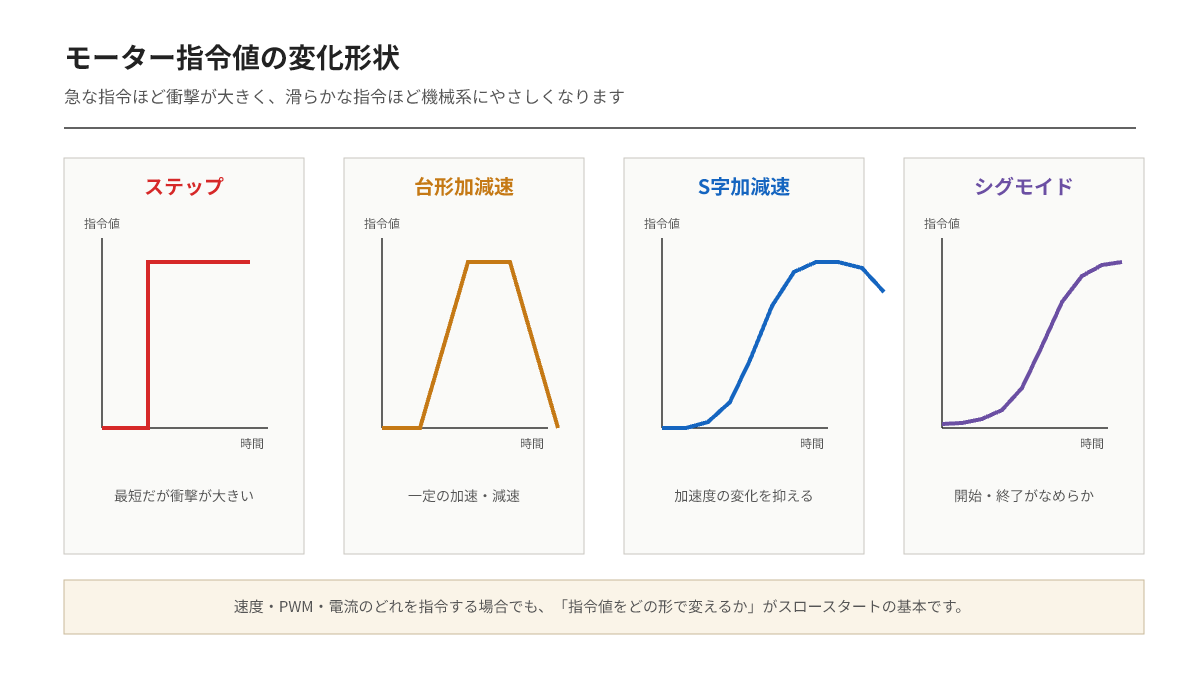
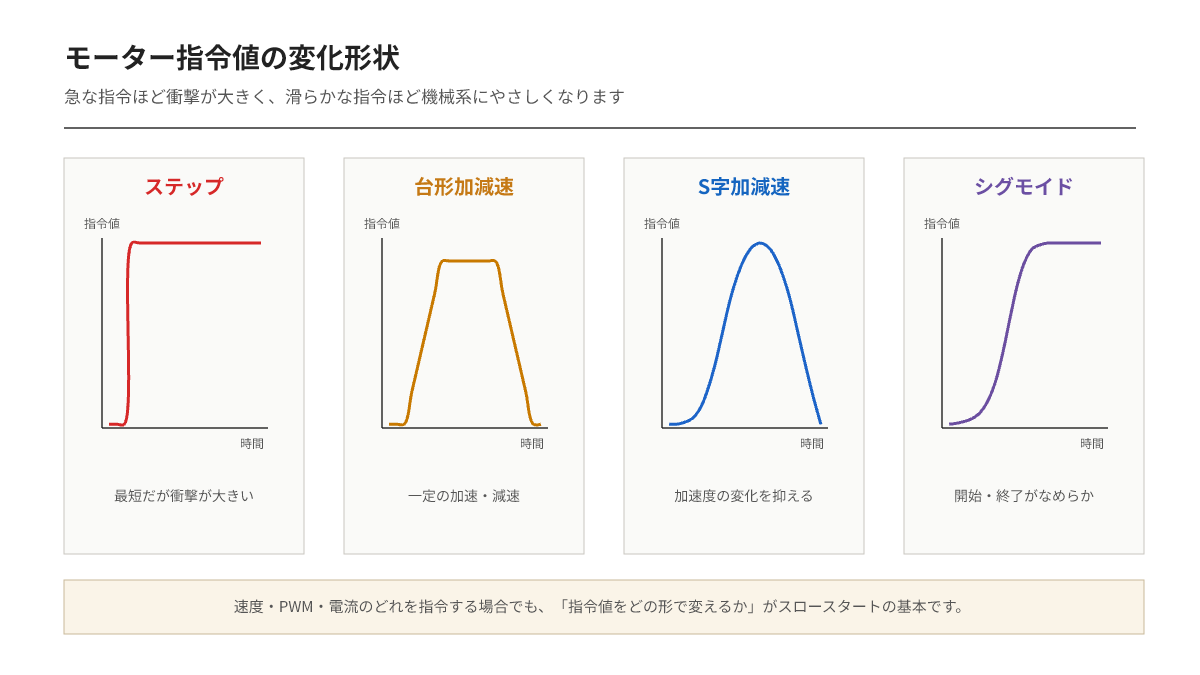
fix docs tag

diff --git a/.vitepress/theme/components/TagExplorer.vue b/.vitepress/theme/components/TagExplorer.vue
@@ -25,6 +25,11 @@ const visibleTags = computed(() => {
 
 const filteredPages = computed(() => getArticlesByTags(selectedTags.value))
 
+function getAvailableTagCount(tag: string): number {
+  const tagsWithoutCurrent = selectedTags.value.filter((selectedTag) => selectedTag !== tag)
+  return getArticlesByTags([...tagsWithoutCurrent, tag]).length
+}
+
 const hasSelection = computed(() => selectedTags.value.length > 0)
 
 function syncUrl(): void {
@@ -87,12 +92,12 @@ onMounted(() => {
 
     <div class="tag-explorer__searchbar">
       <label class="tag-explorer__search">
-        <span class="tag-explorer__search-label">タグ検索</span>
+        <span class="tag-explorer__search-label">タグを検索</span>
         <input
           v-model="searchQuery"
           class="tag-explorer__search-input"
           type="search"
-          placeholder="タグ名で探す"
+          placeholder="例：CAN、入門、通信"
         />
       </label>
 
@@ -115,7 +120,8 @@ onMounted(() => {
     </div>
 
     <div class="tag-explorer__meta">
-      <span>{{ filteredPages.length }} 記事</span>
+      <strong>{{ filteredPages.length }} 件</strong>
+      <span>の記事が見つかりました</span>
       <span v-if="selectedTags.length">
         {{ selectedTags.join(' + ') }} で絞り込み中
       </span>
@@ -141,7 +147,7 @@ onMounted(() => {
           @click="toggleTag(item.tag)"
         >
           <span class="tag-explorer__filter-name">{{ item.tag }}</span>
-          <span class="tag-explorer__filter-count">{{ item.count }}</span>
+          <span class="tag-explorer__filter-count">{{ getAvailableTagCount(item.tag) }}</span>
         </button>
       </div>
     </div>
@@ -153,6 +159,12 @@ onMounted(() => {
         :article="page"
         :displayMode="mode"
       />
+    </div>
+
+    <div v-if="!filteredPages.length" class="tag-explorer__empty">
+      <strong>条件に一致する記事がありません</strong>
+      <p>タグを減らすか、検索条件を変えてみてください。</p>
+      <button type="button" @click="clearTags">選択をリセット</button>
     </div>
   </section>
 </template>
@@ -316,6 +328,11 @@ onMounted(() => {
   font-size: 0.9rem;
 }
 
+.tag-explorer__meta strong {
+  color: var(--vp-c-text-1);
+  font-size: 1.05rem;
+}
+
 .tag-explorer__filters-panel {
   display: grid;
   gap: 0.9rem;
@@ -411,6 +428,36 @@ onMounted(() => {
 .tag-explorer__filter.is-active .tag-explorer__filter-count {
   color: var(--vp-c-brand-1);
   background: color-mix(in srgb, var(--vp-c-brand-1) 12%, transparent);
+}
+
+.tag-explorer__empty {
+  display: grid;
+  justify-items: start;
+  gap: 0.45rem;
+  padding: 2.25rem 1.25rem;
+  border: 1px dashed var(--vp-c-divider);
+  border-radius: 1rem;
+  background: var(--vp-c-bg-soft);
+}
+
+.tag-explorer__empty p {
+  margin: 0;
+  color: var(--vp-c-text-2);
+}
+
+.tag-explorer__empty button {
+  margin-top: 0.35rem;
+  border: 0;
+  padding: 0;
+  color: var(--vp-c-brand-1);
+  background: transparent;
+  font: inherit;
+  font-weight: 700;
+  cursor: pointer;
+}
+
+.tag-explorer__empty button:hover {
+  text-decoration: underline;
 }
 
 .tag-explorer__grid {

diff --git a/.vitepress/theme/components/TechnicalArticleCategory.vue b/.vitepress/theme/components/TechnicalArticleCategory.vue
@@ -1,6 +1,7 @@
 <script setup lang="ts">
 import { withBase } from 'vitepress'
 import type { HomeThumbnailSection } from '../home-thumbnail'
+import { useTags } from '../composables/useTags'
 
 const props = defineProps<{
   eyebrow?: string
@@ -9,7 +10,10 @@ const props = defineProps<{
   target: string
   sections: HomeThumbnailSection[]
   backLink?: string
+  showStats?: boolean
 }>()
+
+const { articles, tagSummaries } = useTags()
 </script>
 
 <template>
@@ -18,6 +22,21 @@ const props = defineProps<{
       <p class="technical-article-category__eyebrow">{{ props.eyebrow ?? 'Technical Articles' }}</p>
       <h1>{{ props.title }}</h1>
       <p class="technical-article-category__lead">{{ props.description }}</p>
+
+      <div v-if="props.showStats" class="technical-article-category__stats" aria-label="開発資料の概要">
+        <div>
+          <strong>{{ articles.length }}</strong>
+          <span>記事</span>
+        </div>
+        <div>
+          <strong>{{ tagSummaries.length }}</strong>
+          <span>タグ</span>
+        </div>
+        <div>
+          <strong>4</strong>
+          <span>カテゴリ</span>
+        </div>
+      </div>
 
       <nav class="technical-article-category__links" aria-label="開発資料の関連リンク">
         <a v-if="props.backLink" :href="withBase(props.backLink)">
@@ -97,6 +116,37 @@ const props = defineProps<{
 
 .technical-article-category__links a:hover {
   text-decoration: underline;
+}
+
+.technical-article-category__stats {
+  display: flex;
+  flex-wrap: wrap;
+  gap: 1.35rem;
+  margin-top: 1.55rem;
+}
+
+.technical-article-category__stats div {
+  display: inline-flex;
+  align-items: baseline;
+  gap: 0.35rem;
+  padding-right: 1.35rem;
+  border-right: 1px solid var(--vp-c-divider);
+}
+
+.technical-article-category__stats div:last-child {
+  padding-right: 0;
+  border-right: 0;
+}
+
+.technical-article-category__stats strong {
+  color: var(--vp-c-brand-1);
+  font-size: 1.35rem;
+  line-height: 1;
+}
+
+.technical-article-category__stats span {
+  color: var(--vp-c-text-2);
+  font-size: 0.82rem;
 }
 
 .technical-article-category__links a:focus-visible {

diff --git a/.vitepress/theme/components/TechnicalArticlesHome.vue b/.vitepress/theme/components/TechnicalArticlesHome.vue
@@ -18,8 +18,8 @@ const sections: HomeThumbnailSection[] = [
     maxItems: 4,
     filters: [
       { includeTags: ['開発資料', 'MCU'] },
-      { includeTags: ['開発資料', 'HAL'] },
-      { includeTags: ['開発資料', '設定'] },
+      { includeTags: ['開発資料', 'HALbed'] },
+      { includeTags: ['開発資料', 'STM32'] },
     ],
   },
   {
@@ -49,5 +49,6 @@ const sections: HomeThumbnailSection[] = [
     description="HALbed と STM32 を使った開発に役立つ記事を、目的別にまとめています。"
     target="article-home"
     :sections="sections"
+    :show-stats="true"
   />
 </template>

diff --git a/Docs/Technical_articles/About_MCU_Articles.md b/Docs/Technical_articles/About_MCU_Articles.md
@@ -20,30 +20,30 @@ const sections: HomeThumbnailSection[] = [
     title: 'HAL',
     description: 'HAL を使った最初の動作確認に役立つ記事を集めています。',
     filters: [
-      { includeTags: ['開発資料', 'HAL'] },
+      { includeTags: ['開発資料', 'HALbed'] },
     ],
   },
   {
     title: 'HALbed の機能',
     description: 'Callback、CircularBuffer、LogManagerなど、HALbedの機能を実装例とともに紹介します。',
     filters: [
-      { includeTags: ['技術記事', 'HALbed'] },
+      { includeTags: ['開発資料', 'HALbed'] },
     ],
   },
   {
     title: 'CAN / FDCAN',
     description: 'CAN 周辺の設定や送受信で、つまずきやすいポイントを整理しています。',
     filters: [
-      { includeTags: ['開発資料', 'MCU', 'CAN', 'CANFD', '用語解説'] },
-      { includeTags: ['開発資料', 'MCU', 'CAN', 'CANFD'] },
+      { includeTags: ['開発資料', 'MCU', 'CAN', 'CAN FD', '用語解説'] },
+      { includeTags: ['開発資料', 'MCU', 'CAN', 'CAN FD'] },
     ],
   },
   {
     title: 'CubeIDE / MX の設定',
     description: 'CubeIDE / MX の設定で、特に気をつけたい点をまとめています。',
     filters: [
-      { includeTags: ['開発資料', 'MCU', 'CAN', 'CANFD', '設定'] },
-      { includeTags: ['Nucleo', 'CubeMX', '設定'] },
+      { includeTags: ['開発資料', 'MCU', 'STM32'] },
+      { includeTags: ['開発資料', 'STM32'] },
     ],
   },
 ]

diff --git a/Docs/Technical_articles/Other_Articles.md b/Docs/Technical_articles/Other_Articles.md
@@ -12,7 +12,7 @@ const sections: HomeThumbnailSection[] = [
     title: '有線通信',
     description: 'ロボット製作でよく使う通信方式の基礎をまとめています。',
     filters: [
-      { includeTags: ['有線通信', '入門'] },
+      { includeTags: ['開発資料', '有線通信', '入門'] },
     ],
   },
 ]

diff --git a/Docs/Technical_articles/MCU_Doc/CAN_Filters_Nbr.md b/Docs/Technical_articles/MCU_Doc/CAN_Filters_Nbr.md
@@ -3,7 +3,7 @@ tags:
   - 開発資料
   - MCU
   - CAN
-  - CANFD
+  - CAN FD
   - 用語解説
 thumbnail:
   targets:
@@ -13,7 +13,7 @@ thumbnail:
   order: 30
 ---
 
-# CAN/CANFD Filters Nbr 
+# CAN/CAN FD Filters Nbr
 
 ## 概要
 

diff --git a/Docs/Technical_articles/Other_Articles/Wired_communication/05-frame-format.md b/Docs/Technical_articles/Other_Articles/Wired_communication/05-frame-format.md
@@ -1,10 +1,11 @@
 ---
 tags:
+    - 開発資料
+    - 有線通信
     - CAN
+    - CAN FD
     - CANフレーム
     - CRC
-    - ACK
-    - ビットスタッフィング
 ---
 
 # CAN / CAN FD入門 第3編

diff --git a/Docs/Technical_articles/Other_Articles/Wired_communication/04-differential-signaling.md b/Docs/Technical_articles/Other_Articles/Wired_communication/04-differential-signaling.md
@@ -1,9 +1,9 @@
 ---
 tags:
+    - 開発資料
+    - 有線通信
     - CAN
-    - 物理層
-    - 差動信号
-    - 終端抵抗
+    - CAN FD
 ---
 
 # CAN / CAN FD入門 第2編

diff --git a/Docs/Technical_articles/Other_Articles/Wired_communication/06-arbitration-and-errors.md b/Docs/Technical_articles/Other_Articles/Wired_communication/06-arbitration-and-errors.md
@@ -1,9 +1,9 @@
 ---
 tags:
+    - 開発資料
+    - 有線通信
     - CAN
-    - 調停
-    - エラー処理
-    - バスオフ
+    - CAN FD
 ---
 
 # CAN / CAN FD入門 第4編

diff --git a/Docs/Technical_articles/Other_Articles/Wired_communication/08-can-debugging.md b/Docs/Technical_articles/Other_Articles/Wired_communication/08-can-debugging.md
@@ -1,9 +1,9 @@
 ---
 tags:
+    - 開発資料
+    - 有線通信
     - CAN
     - CAN FD
-    - 設計
-    - デバッグ
 ---
 
 # CAN / CAN FD入門 第6編

diff --git a/Docs/Technical_articles/MCU_Doc/BSP_Setting.md b/Docs/Technical_articles/MCU_Doc/BSP_Setting.md
@@ -1,9 +1,8 @@
 ---
 tags:
     - 開発資料
-    - Nucleo
-    - CubeMX
-    - 設定
+    - MCU
+    - STM32
 thumbnail:
   targets:
     - article-home

diff --git a/Docs/Technical_articles/MCU_Doc/pullup-and-pulldown.md b/Docs/Technical_articles/MCU_Doc/pullup-and-pulldown.md
@@ -1,8 +1,8 @@
 ---
 tags:
+    - 開発資料
+    - MCU
     - GPIO
-    - プルアップ
-    - プルダウン
     - 電子回路
     - 入門
 ---
